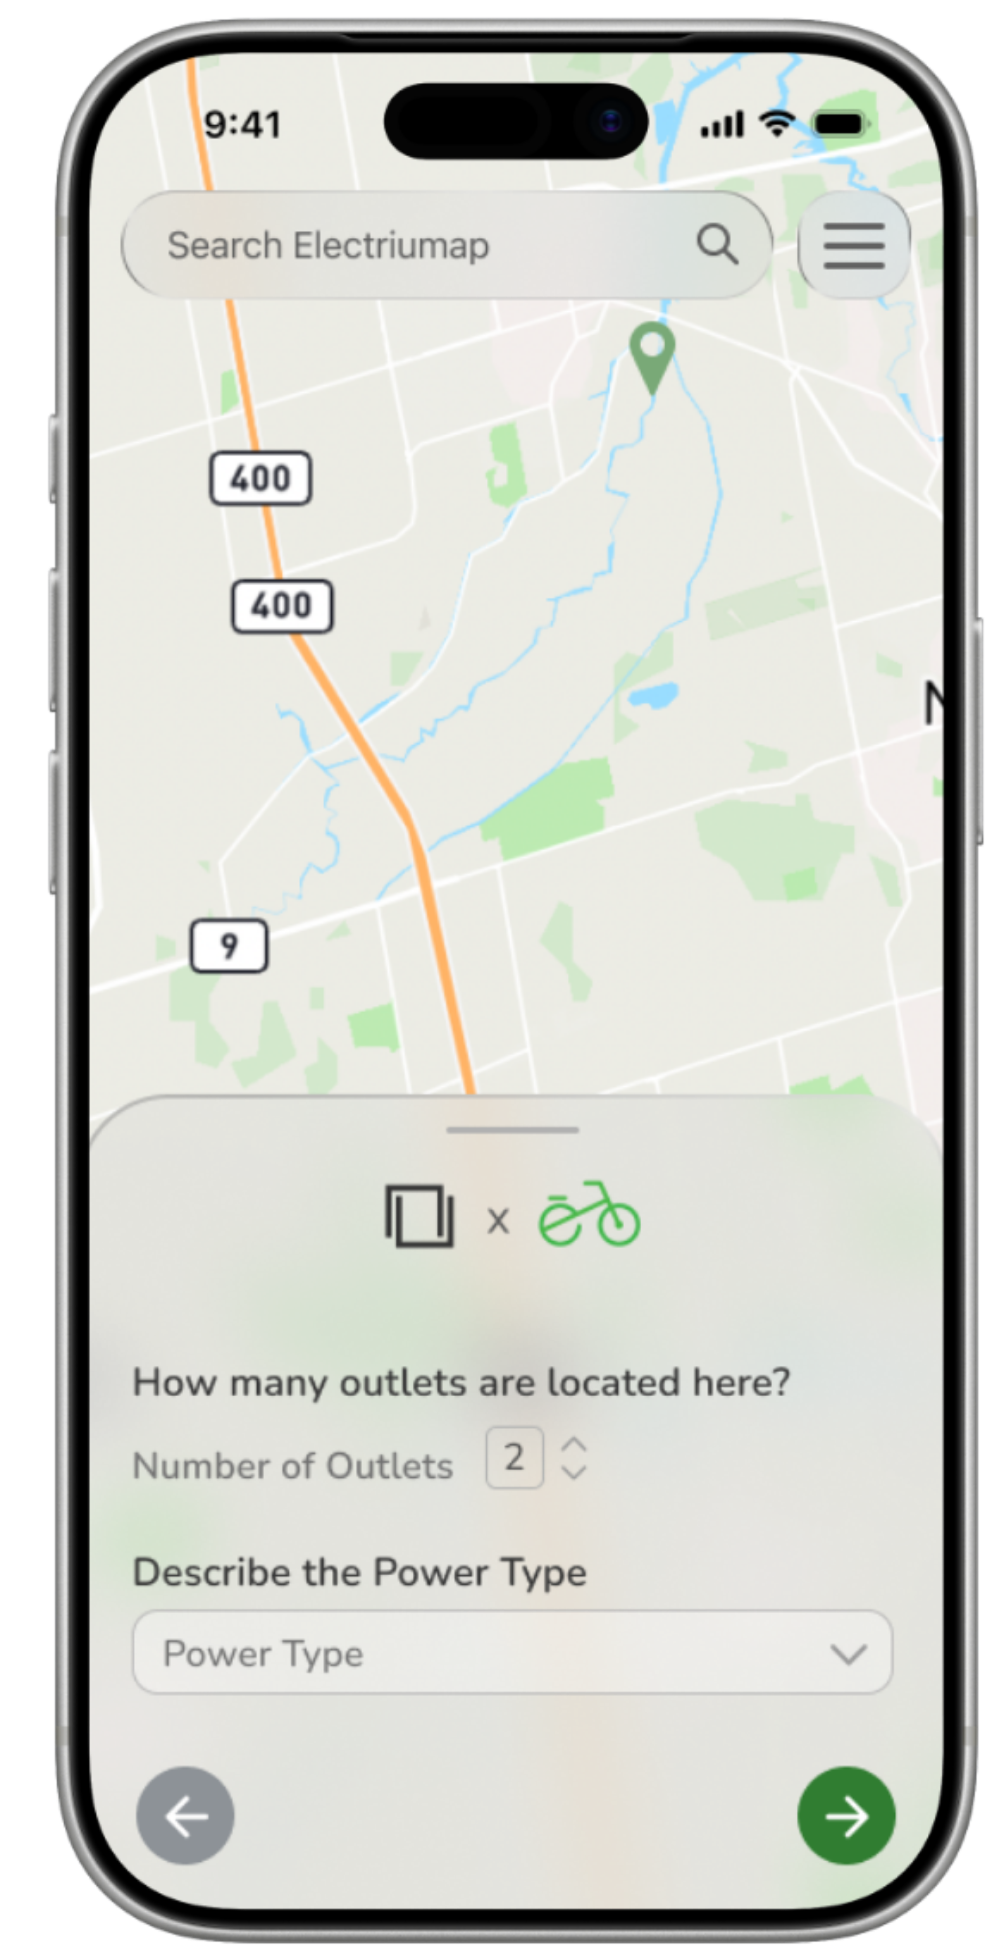
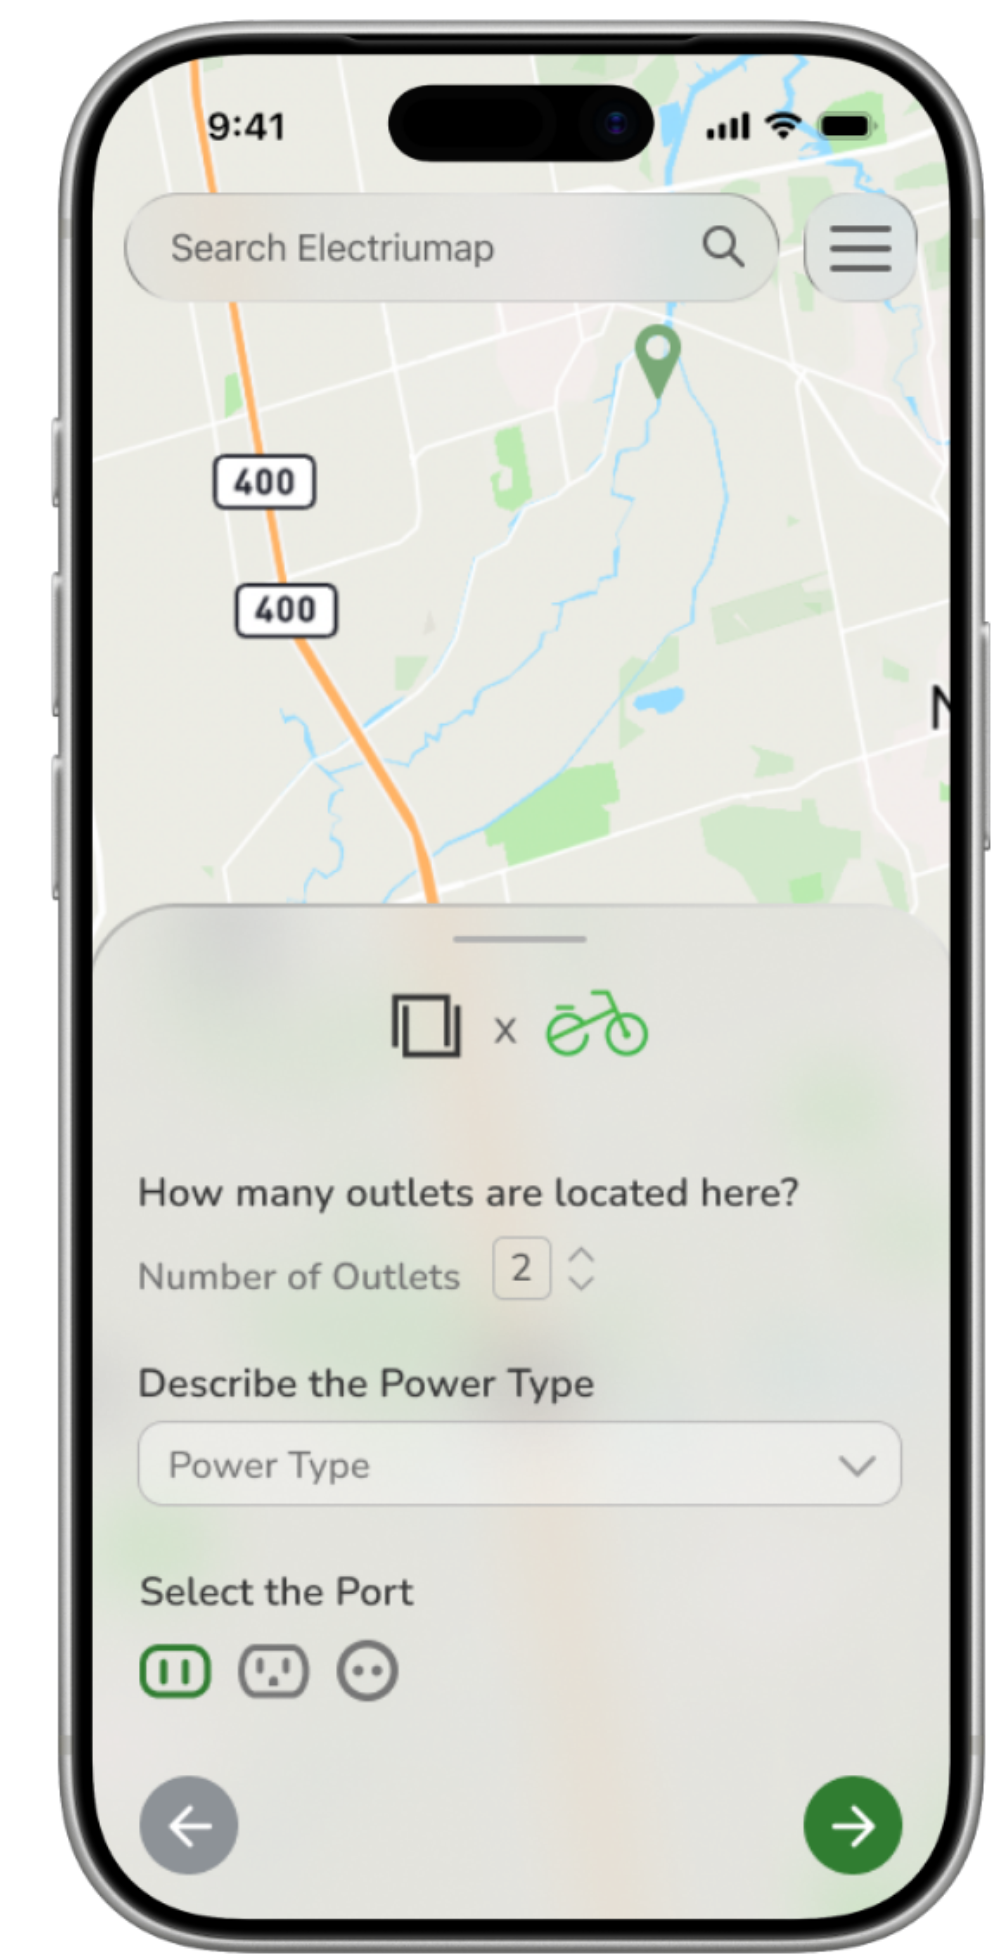
electrium mobility case study done

diff --git a/portfolio/app/(site)/projects/map/page.tsx b/portfolio/app/(site)/projects/map/page.tsx
@@ -18,6 +18,7 @@ export default function MapCaseStudy() {
           { label: "tools", values: ["figma"] },
         ]}
       />
+      <p>⚠  Note: This is only part of the work I did, but it encompasses the main scope which is translating desktop designs to mobile</p>
       <section className="space-y-3">
         <h2 className="text-3xl">background</h2>
         <p className="text-detail-color">
@@ -37,129 +38,161 @@ export default function MapCaseStudy() {
       </section>
 
       <section className="space-y-3">
+        <h2 className="text-3xl mt-2">design style</h2>
+        <p className="text-detail-color">
+          Electrium Mobility wanted to focus on modern UI, and with the recent (at the time) introduction of Apple Liquid Glass, there was an
+          interest in incorporating glassmorphism into the overall designs.
+        </p>
+        <ImageContainer
+          images={[
+            { src: "/map/glass1.png", alt: "glass1" },
+            { src: "/map/glass2.png", alt: "glass2" },
+          ]}
+        />
+        <p className="text-detail-color">
+          Additionally, for certain accents, Electriumap featured a green colour palette, which I also incorporated into the designs.
+          However, it is important to note that on the desktop version, this colour palette was loosely used, thus for the mobile version, I also used this colour palette in a more loose way, to maintain the same style as the desktop version.
+        </p>
+      </section>
+
+      <section className="space-y-3">
+        <h2 className="text-3xl">desktop version</h2>
+        <p className="text-detail-color">All the desktop designs for Electriumap were <span className="font-semibold">completed</span> before I joined the project.</p>
+        <p className="text-detail-color">The following desktop images are just for reference.</p>
+        <h3 className="text-2xl">home/search</h3>
+        <ImageContainer
+          images={[
+            { src: "/map/desktophome.png", alt: "home" },
+            { src: "/map/desktopsearch.png", alt: "search" },
+          ]}
+        />
+        <p className="text-detail-color">
+          The images above showcase the desktop version of the home and search pages of Electriumap. As you can see, the design incorporates many glassmorphism elements as well as particular green accent colours. 
+        </p>
+
+        <h3 className="text-2xl">view/save/add outlets</h3>
+        <ImageContainer
+          images={[
+            { src: "/map/desktopaddress.png", alt: "address" },
+            { src: "/map/desktopsave.png", alt: "saved" },
+            { src: "/map/desktopadd.png", alt: "add" },
+          ]}
+        />
+        <p className="text-detail-color">
+          Moving on, the first image showcases the design mockups for viewing an outlet details, the second image showcases the design mockups for viewing a saved outlet, and the third image showcases the design mockups for adding an outlet.
+        </p>
+
+        <h3 className="text-2xl">profile</h3>
+        <ImageContainer
+          images={[
+            { src: "/map/desktopprofile.png", alt: "profile" },
+          ]}
+        />
+        <p className="text-detail-color">
+          Finally, the image above showcases the design mockups for the profile page, which is where users can edit their profile, view their vehicles and view their shared outlets.
+        </p>
+      </section>
+      <section className="space-y-3">
+        <h2 className="text-3xl">mobile designs</h2>
+        <p className="text-detail-color">
+          The following images showcase my work in translating the desktop designs to mobile.
+        </p>
         <ImageTextSideBySide
-        images={[{ src: "/ferret/e1.png", alt: "e1" },
+          images={[{ src: "/map/home.png", alt: "home" },
+            { src: "/map/search.png", alt: "search" },
           ]}
-          aspectRatio="1/1"
+          aspectRatio="1/2"
           imageLeft={false}
+          imageWidth={240}
         >
-          <h3 className="text-2xl mt-2">market research</h3>
-          <p className="text-detail-color">
-            When conducting market research, a whopping 69.2% of users solely use a map app for tourism purposes. Furthermore, the second largest group, 16.9% of Gen Z, selected that they do not use any tourism apps. Thus, it is clear that tourism-related apps aren't doing what they set out to do for the majority of users.
-          </p>
-          <br />
-          <p className="text-detail-color">
-            When asked about social media habits, only 1 out of our 65 participants said that they did not use social media apps. Ferret aims to take advantage of this by turning a tourism app into a social media platform.
-          </p>
+        <h3 className="text-2xl">home/search</h3>
+        <p className="text-detail-color">
+          These images showcase the mobile designs for the home and search pages. 
+        </p>
+        <br />
+        <p className="text-detail-color">
+          As you can see, the top elements have been compressed into a search bar and a hamburger menu, to save and conserve space. When clicked, the hamburger menu will reveal the different ports that a user can filter the map by.
+          The buttons that were removed (light/dark mode toggle, save button, history button) were all moved to different areas of the app. For example, the light/dark mode toggle on mobile is now within the profile section.
+
+        </p>
         </ImageTextSideBySide>
-      </section>
 
-      <section className="space-y-3">
-        <h2 className="text-3xl">solution</h2>
+        <ImageTextSideBySide
+          images={[{ src: "/map/address.png", alt: "address" },
+            { src: "/map/saved.png", alt: "saved" },
+          ]}
+          aspectRatio="1/2"
+          imageLeft={true}
+          imageWidth={240}
+        >
+        <h3 className="text-2xl">view/save outlets</h3>
         <p className="text-detail-color">
-          Ferret seeks to address both sides of the problem: it helps residents 
-          discover unique local businesses and experiences, while also 
-          providing a platform for small businesses to market themselves to a wider audience.
+          These images showcase the mobile designs for viewing an outlet details and viewing a saved outlet.
         </p>
-          <ImageTextSideBySide
-            images={[{ src: "/ferret/home2.png", alt: "home" },
-              { src: "/ferret/review2.png", alt: "review" },
-            ]}
-            aspectRatio="1/2"
-            imageLeft={true}
-            imageWidth={240}
-          >
-            <h3 className="text-2xl mt-2">key features</h3>
-            <p className="text-detail-color">
-              The main platform features a social media style layout, where users can share their experiences, discover hidden local gems, and engage with trusted reviews from their personal network.        
-            </p>
-            <br />
-            <p className="text-detail-color">
-              Additionally, users are able to view reviews from their friends only, eliminating the risk of fake reviews.
-            </p>
-          </ImageTextSideBySide>
+        <br />
+        <p className="text-detail-color">
+          A modal sheet popup is used to showcase the details of the outlet, keeping the users within the frame of the map while they are able to view additional information.
+          It's important to note that the viewing a saved outlet design could be made into it's own page, especially since accessing the popup is done from the navbar.
+        </p>
+        </ImageTextSideBySide>
 
-          <ImageTextSideBySide
-          images={[{ src: "/ferret/plan.png", alt: "home" },
-              { src: "/ferret/ai.png", alt: "review" },
-            ]}
-            aspectRatio="1/2"
-            imageLeft={false}
-            imageWidth={240}
-          >
-            <h3 className="text-2xl mt-2">extra features</h3>
-            <p className="text-detail-color">
-              Ferret enhances the user experience by seamlessly integrating saved locations into an in-app calendar, allowing users to effortlessly plan their day around their favourite spots. This calendar is fully shareable, making group planning intuitive and collaborative—friends can coordinate schedules, align plans, and build experiences together in just a few taps.             
-            </p>
-            <br />
-            <p className="text-detail-color">
-              No idea? No problem. To further elevate the experience, Ferret AI can help you personalize your day. By using the app, Ferret AI learns your preferences through past activity and social connections, delivering tailored recommendations that align with your interests. From hidden local gems to trending spots, users can effortlessly plan the perfect outing without the stress of searching.
-            </p>
-          </ImageTextSideBySide>
-      </section>
-      <section className="space-y-3">
-        <h2 className="text-3xl">competitor analysis</h2>
-        <p className="text-detail-color">
-          Ferret is completely unique. It combines all the best aspects of social media and tourism apps, creating the perfect combination.
-        </p>
-        <p className="text-detail-color">
-          Furthermore, because our app is styled as a sort of social media, you are bound to discover the more unique things to do in Toronto, as on applications like Yelp, you tend to only find the more cliche things to do.
-        </p>
-        <p className="text-detail-color">
-          Furthermore, because our app is styled as a sort of social media, you are bound to discover the more unique things to do in Toronto, as on applications like Yelp, you tend to only find the more cliche things to do.
-        </p>
-        <p>
-          ⚠ Note: As of recent, it turns out that in 2022, an app called Corner was released, which is very similar to Ferret! Very cool so go check it out :)
-        </p>
+        <h3 className="text-2xl">add outlets</h3>
         <ImageContainer
           images={[
-            { src: "/ferret/comp.png", alt: "competitor analysis" },
+            { src: "/map/step1.png", alt: "step 1" },
+            { src: "/map/step2.png", alt: "step 2" },
+            { src: "/map/step3.png", alt: "step 3" },
+            { src: "/map/step4.png", alt: "step 4" },
           ]}
         />
-      </section>
-      <section className="space-y-3">
-        <h2 className="text-3xl">revenue</h2>
         <p className="text-detail-color">
-          Ferret will charge a one time fee for businesses to be on our app, roughly 20 dollars, after a short free trial. Businesses can also pay an additional fee to send push notifications to those who have favorited locations.
+          These images depict the steps needed to add an outlet.
         </p>
-        <p>
-          For users, Ferret will be mainly free, with a few subscription plans including premium discounts and early access to events. This free app will set Ferret apart from many tourism apps, since many paid features usually make or break the app.
+        <p className="text-detail-color">
+          The redesign of the add outlet flow was the most significant out of all the flows, since the desktop version had a lot of elements that would not fit on mobile. 
+          Thus, a multi-step form was used to break down the process of adding an outlet, making it easier for users to navigate through the process on mobile.
         </p>
-      </section>
-      <section>
-        <h2 className="text-3xl">promo mockups</h2>
-        <ImageContainer
-          images={[
-            { src: "/ferret/promo.png", alt: "promo" },
+        <p className="text-detail-color">
+          I also took some creative liberties with the text input fields. On the desktop version, the text input fields are big with a thick gray stroke. However, this didn't seem to align with the other
+          boxes that were present within the app. To maintain a consisten design style, I decided to reduce the thickness of the stroke and make the text input fields smaller.
+        </p>
+
+        <ImageTextSideBySide
+          images={[{ src: "/map/profile.png", alt: "profile" }
           ]}
-        />
+          aspectRatio="1/2"
+          imageLeft={true}
+          imageWidth={240}
+        >
+        <h3 className="text-2xl">profile</h3>
+        <p className="text-detail-color">
+          These images showcase the mobile designs for viewing the user profile
+        </p>
+        <br />
+        <p className="text-detail-color">
+          Similar to the reason for taking creative liberties for the add outlet flow, I also took creative liberties with the profile page.
+        </p>
+        <p className="text-detail-color">
+          The desktop version featured gray boxes that were opposite to the rest of the design. For the mobile version, I decided to play around with the colours and chose a more appropriate colour scheme that aligned with the rest of the app.
+        </p>
+        </ImageTextSideBySide>
+
       </section>
-      <section className="space-y-3">
-        <h2 className="text-3xl">prototype</h2>
-        <iframe
-          src="https://embed.figma.com/proto/V757mhTAKMzDvE88PTQyS8/Ferret?node-id=2-488&p=f&scaling=scale-down&content-scaling=fixed&page-id=0%3A1&starting-point-node-id=2%3A535&show-proto-sidebar=1&embed-host=share"
-          className="w-full aspect-video border border-black/10 rounded"
-          allowFullScreen
-        />      
-      </section>
+
       <section>
         <h2 className="text-3xl">reflection</h2>
         <p className="text-detail-color">
-          Overall, Ferret was a great learning experience and stepping stone for me as a product designer.
-          Before Ferret, I had never done any user research or prototyping (or even used Figma). In fact,
-          the prototypes in this case study were originally made in Canva before I later experimented with Figma.
+          Electriumap was a great experience for me to learn how to translate desktop designs to mobile designs. 
         </p>
-        <p className="text-detail-color">
+        <br />
+        <p className="text-detail-color font-semibold">
           Here's a few notes on what I learned:
         </p>
         <p className="text-detail-color">
-          1. It's important to do user research and validate your assummptions.
+          1. It's important to consider the mobile design when designing for desktop to avoid having to make significant changes for the design (mobile first design!).
         </p>
         <p className="text-detail-color">
-          2. Sometimes the best solution comes from taking a look at competitors and borrowing the best features from each of them, instead of trying to reinvent the wheel.
-        </p>
-        <p className="text-detail-color">
-          3. Figma's not so bad once you got the hang of it. It's just a bunch of frames on frames on frames.
+          2. Consider the user experience when designing for mobile. It's not just about trying to make the design fit on a smaller screen, but also making sure that the design is easy to navigate.
         </p>
       </section>
     </main>

diff --git a/portfolio/app/(site)/projects/ferret/page.tsx b/portfolio/app/(site)/projects/ferret/page.tsx
@@ -176,7 +176,8 @@ export default function RippleCaseStudy() {
           Before Ferret, I had never done any user research or prototyping (or even used Figma). In fact,
           the prototypes in this case study were originally made in Canva before I later experimented with Figma.
         </p>
-        <p className="text-detail-color">
+        <br />
+        <p className="text-detail-color font-semibold">
           Here's a few notes on what I learned:
         </p>
         <p className="text-detail-color">

diff --git a/portfolio/app/(site)/projects/ripple/page.tsx b/portfolio/app/(site)/projects/ripple/page.tsx
@@ -241,7 +241,7 @@ export default function RippleCaseStudy() {
           🥉 We placed third at Bloom Designathon!
         </p>
 
-        <p className="text-detail-color">
+        <p className="text-detail-color font-semibold">
           Ripple taught me so many valuable lessons, most importantly:
         </p>
 
